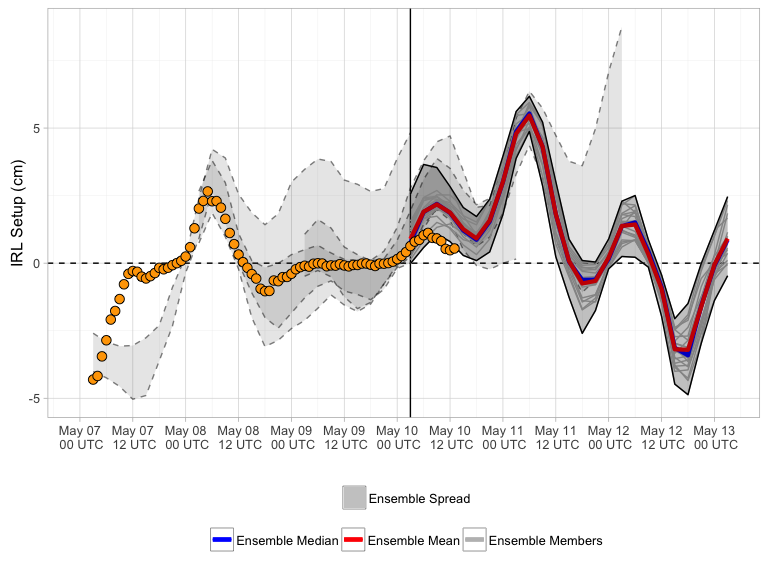
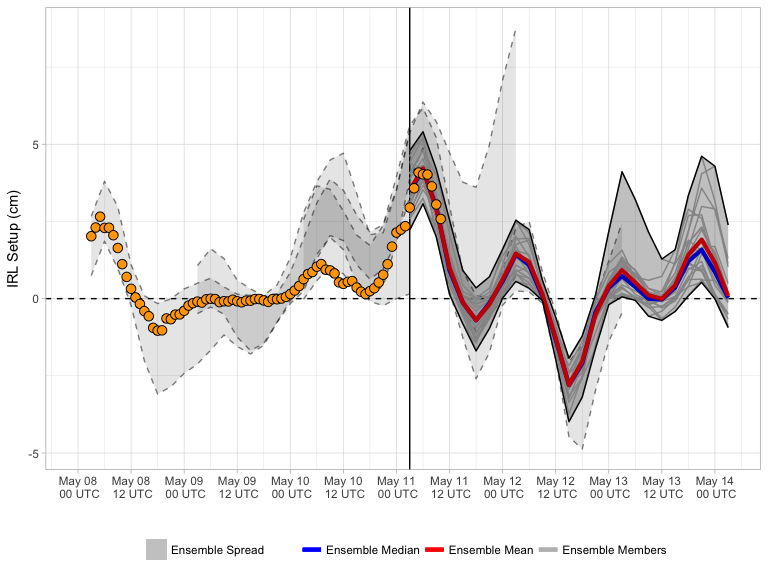
20170511 forecast update

diff --git a/docs/index.md b/docs/index.md
@@ -3,7 +3,7 @@ Current Forecast
 
 [![](img/raw_setup.png)](https://bhlmn.github.io/IRLSetup/img/raw_setup.png)
 
-> Forecast valid 2017-05-10 09:29:14.
+> Forecast valid 2017-05-11 07:10:48.
 
 Explanation
 -----------
@@ -15,7 +15,7 @@ water elevation in the northern IRL (near Titusville), and negative
 setup indicates the increase elevation in the southern IRL (near
 Sebastian). The x-axis displays the date and time in UTC. The solid
 vertical line represents the beginning of the most recent ensemble
-forecast (currently 2017-05-09 18:00:00). For this most recent forecast,
+forecast (currently 2017-05-10 18:00:00). For this most recent forecast,
 the ensemble spread (grey shading) is bound by solid black lines, with
 individual members represented by faint grey lines. The ensemble mean
 and median for this are represented by the red and blue curves,
